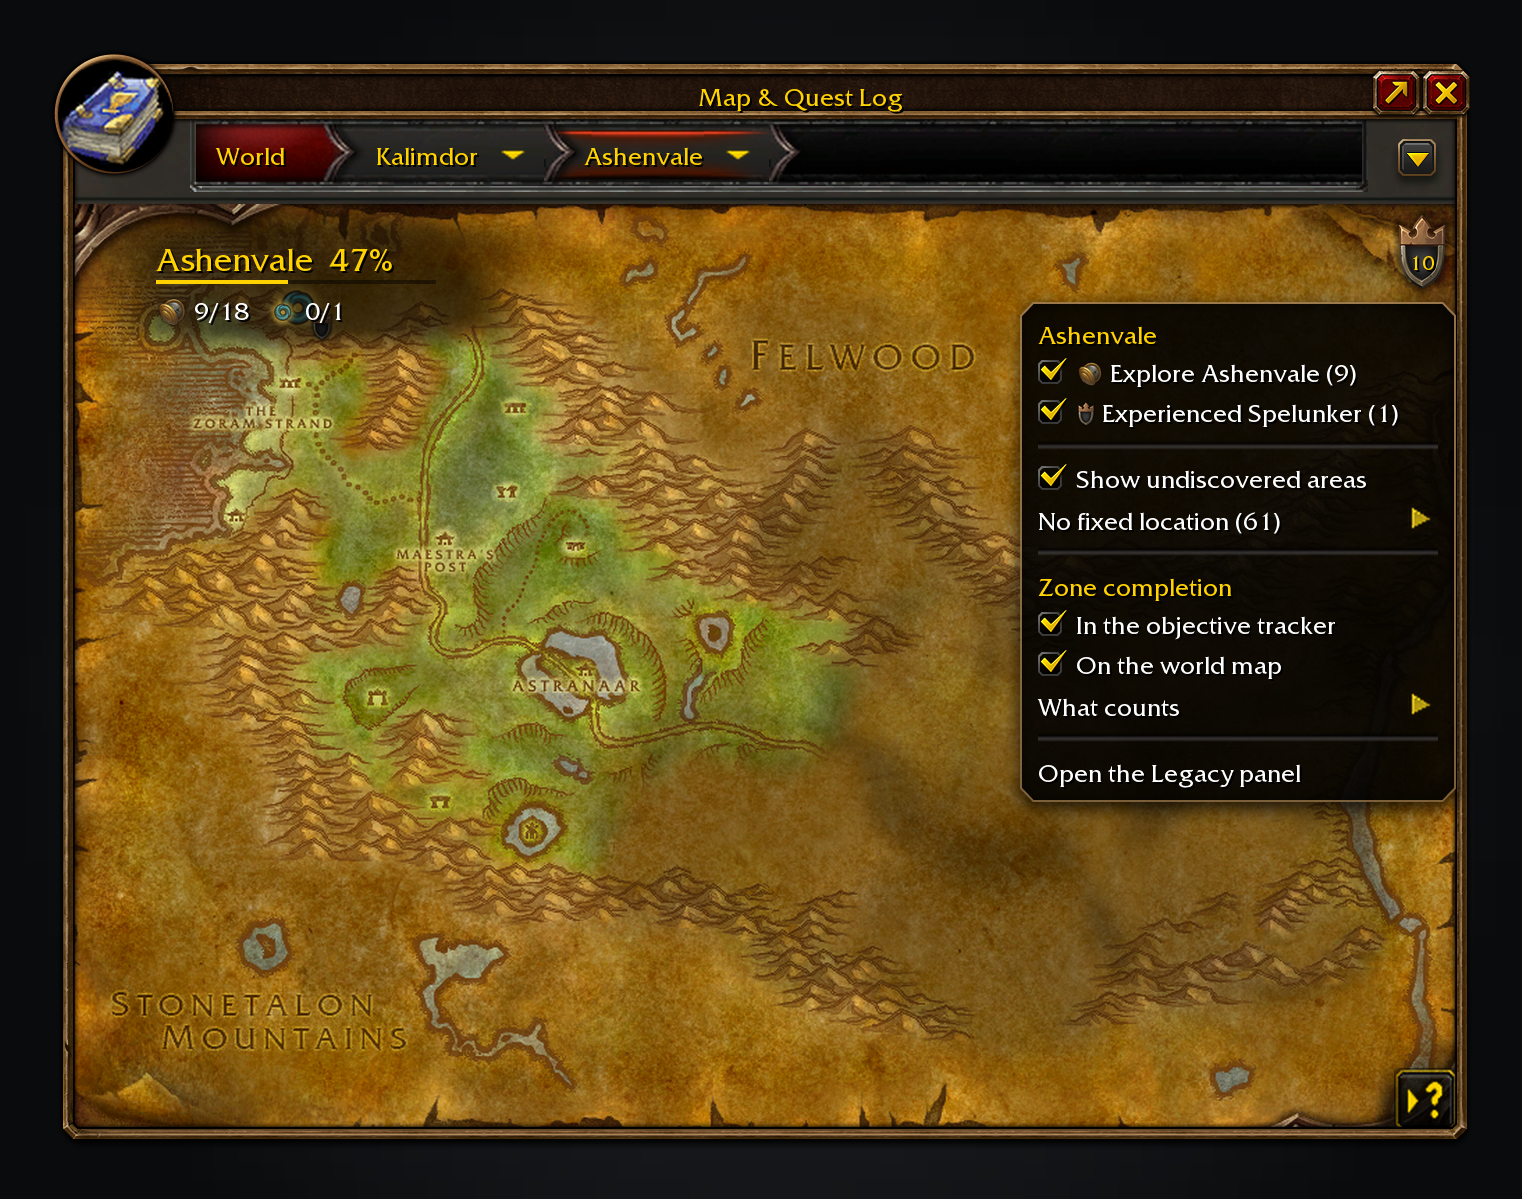
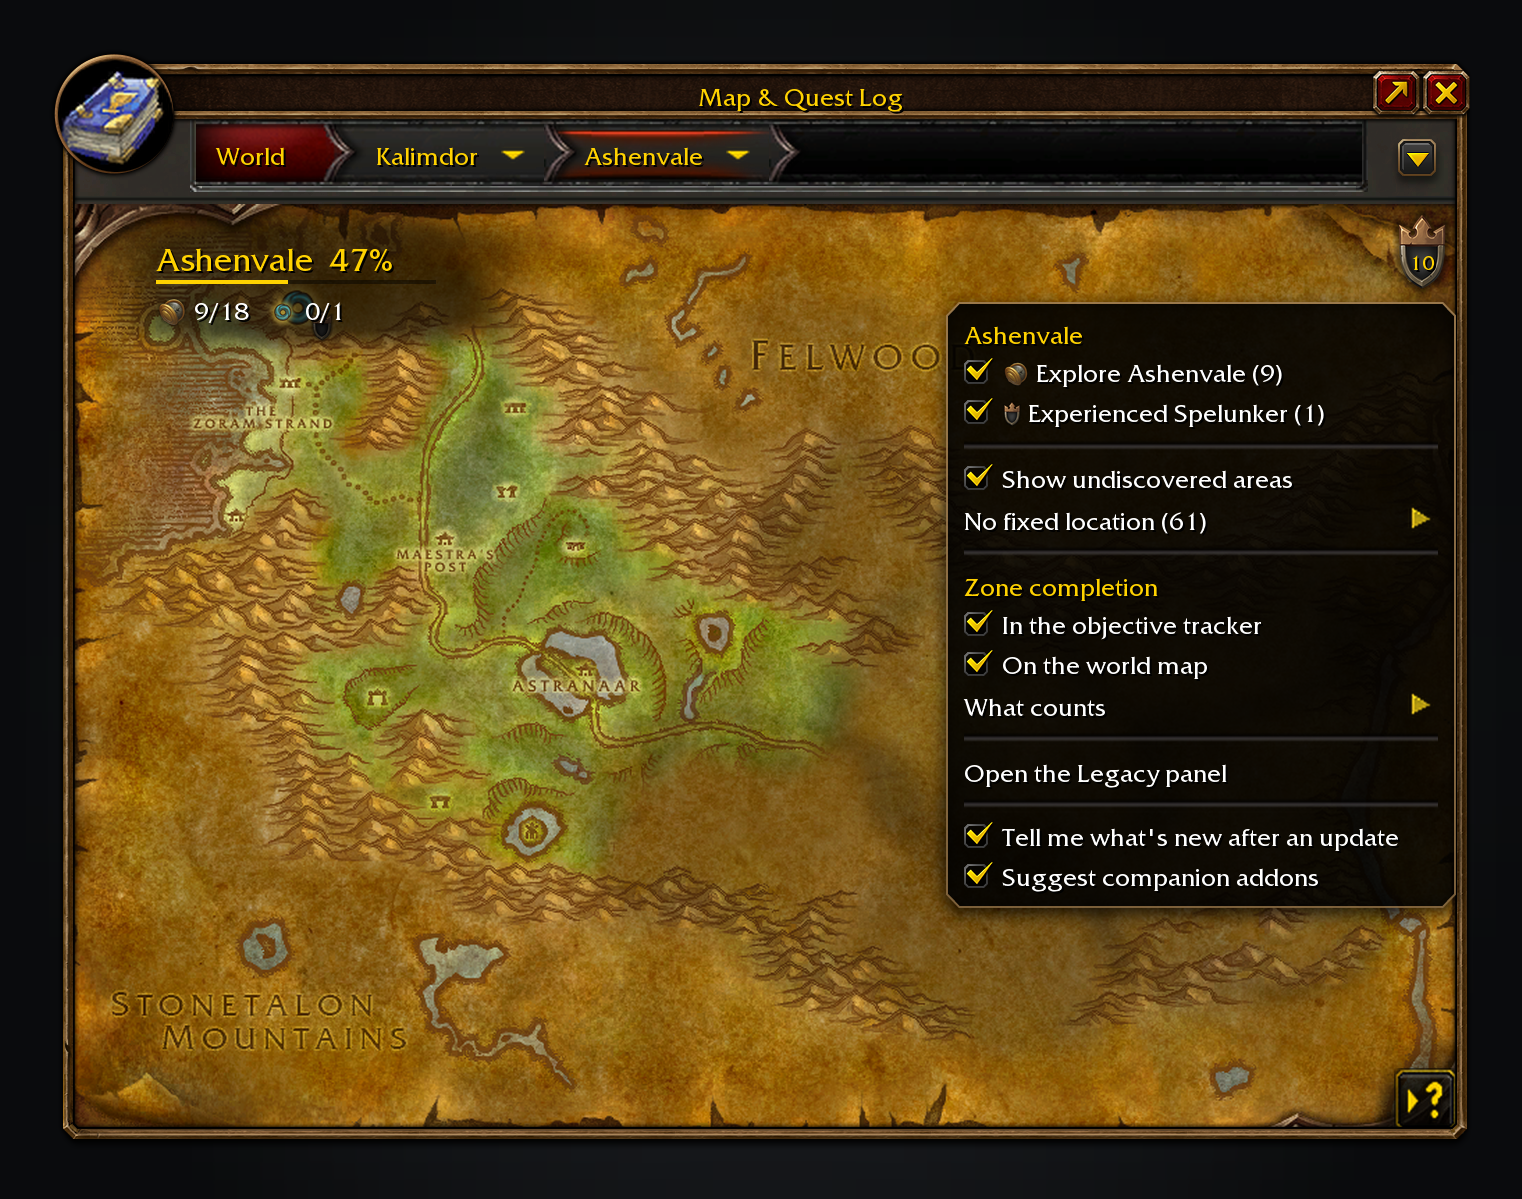
feat: what's new after an update, and a Shortest Path hint on pins (#50)
Two small, quiet additions. Up to date with main after #49 (a signed
merge commit): every new string goes through `L[]`, and
`Locales/phrases.txt` is regenerated (67 phrases).

**What's new.** `WhatsNew.lua` runs on `PLAYER_LOGIN`: when
`C_AddOns.GetAddOnMetadata("LegacyForever", "Version")` differs from
`LegacyForeverDB.lastVersion` and a last version existed, it prints one
line through `ns.Print`: "Legacy Forever updated to 0.6.0.
<ns.WHATS_NEW>", then stores the version. It says nothing on a first
install, on the same version, with "Tell me what's new after an update"
unticked, or in a checkout (`@project-version@`). If the saved table is
nil (the beta client's SavedVariables bug), that counts as a first
install and nothing errors. `ns.WHATS_NEW` sits next to `ns.TITLE` in
Core.lua. It is this release's headline: "Ready for translation, and map
pins suggest Shortest Path Forever to plot the route."

**Companion hint.** Without Shortest Path Forever loaded, a pin's
tooltip keeps "Click to set a waypoint here." and adds a grey
(`GameTooltip_AddDisabledLine`) line under it: "Install Shortest Path
Forever to have the route plotted for you." when
`C_AddOns.DoesAddOnExist` says it isn't there, and "Enable ..." when it
is installed but not loaded. When it's loaded, the click hint already
names it and there's no extra line. "Suggest companion addons" hides the
line.

Both switches are checkboxes at the bottom of the Legacy map menu
[…]

Changed region(s): [[0.6176, 0.2469, 0.9573, 0.7715]]

diff --git a/tools/screenshots.py b/tools/screenshots.py
@@ -462,6 +462,9 @@ def main_menu(live, data):
         MenuButton("What counts", True),
         MenuDivider(),
         MenuButton("Open the Legacy panel"),
+        MenuDivider(),
+        MenuCheckbox("Tell me what's new after an update", True),
+        MenuCheckbox("Suggest companion addons", True),
     ]
     return entries
 
@@ -582,7 +585,9 @@ def render_menu(ui, data, live):
     # A crop of the map's top-right corner, as a screenshot of that part of the screen would show it.
     crop_left, crop_top = bx - 330, 0
     right = max(x + menu.width for menu, x, _ in layers)
-    frame = ui.canvas(canvas.width - crop_left, canvas.height - 150)
+    # Tall enough that the map, not the backdrop, sits behind the whole main menu.
+    menu_bottom = layers[0][2] + layers[0][0].height
+    frame = ui.canvas(canvas.width - crop_left, min(canvas.height, max(canvas.height - 150, menu_bottom + 40)))
     frame.paste(canvas, -crop_left, -crop_top)
     shifted = [(frame, crop_left, crop_top)] + layers
     assert right > crop_left

diff --git a/.agents/skills/sift-project/SKILL.md b/.agents/skills/sift-project/SKILL.md
@@ -61,10 +61,10 @@ edit changed nothing. The standards slice needs `SIFT_STANDARDS_PATH=$HOME/skill
 
 ## Live roots
 
-- `LegacyForever.toc` file list — load order `Locales/enUS.lua` (then any `Locales/<locale>.lua`), `Data/Legacy.lua, Core, Model, Live, Quests, Navigate,
+- `LegacyForever.toc` file list — load order `Locales/enUS.lua` (then any `Locales/<locale>.lua`), `Data/Legacy.lua, Core, WhatsNew, Model, Live, Quests, Navigate,
   Tracker, Completion.xml, Completion, Map.xml, Map`; never reorder as formatting.
 - `## SavedVariables: LegacyForeverDB` — persisted keys `tracked`, `zoneCompletion`,
-  `flightPaths`, `showAreas` and any others read via `ns.SavedTable(key)`; old keys in players'
+  `flightPaths`, `showAreas`, `whatsNew`, `companions`, `lastVersion` and any others read via `ns.SavedTable(key)`; old keys in players'
   saved data are compatibility obligations.
 - `## AddonCompartmentFunc: LegacyForever_OnAddonCompartmentClick` — global called by the client.
 - `SLASH_LEGACYFOREVER1/2` + `SlashCmdList.LEGACYFOREVER` (Core.lua) — `/lf`, `/lf audit`, `/lf criteria`.

diff --git a/CHANGELOG.md b/CHANGELOG.md
@@ -12,6 +12,8 @@ verbatim rather than rewritten as the addon moves.
 ## [Unreleased]
 
 - **Ready for translation.** Every menu, tooltip and chat message the addon writes, apart from `/lf audit`, can now be translated, one file per language in the addon's `Locales` folder; translations are welcome on GitHub. Zone, achievement and objective names already came from the game in your language. Until a translation arrives, the rest reads in English as before.
+- **A pin's tooltip suggests Shortest Path Forever when you don't have it.** Under "Click to set a waypoint here." a grey line says installing it (or enabling it, if it is switched off in the addon list) would plot the whole route for you. Once it is loaded the line goes. Untick "Suggest companion addons" in the Legacy menu to hide it.
+- **One chat line after an update** says which version you now have and the main change. It stays quiet on a first install; untick "Tell me what's new after an update" in the Legacy menu to turn it off.
 
 ## [0.5.0] - 2026-09-25
 
